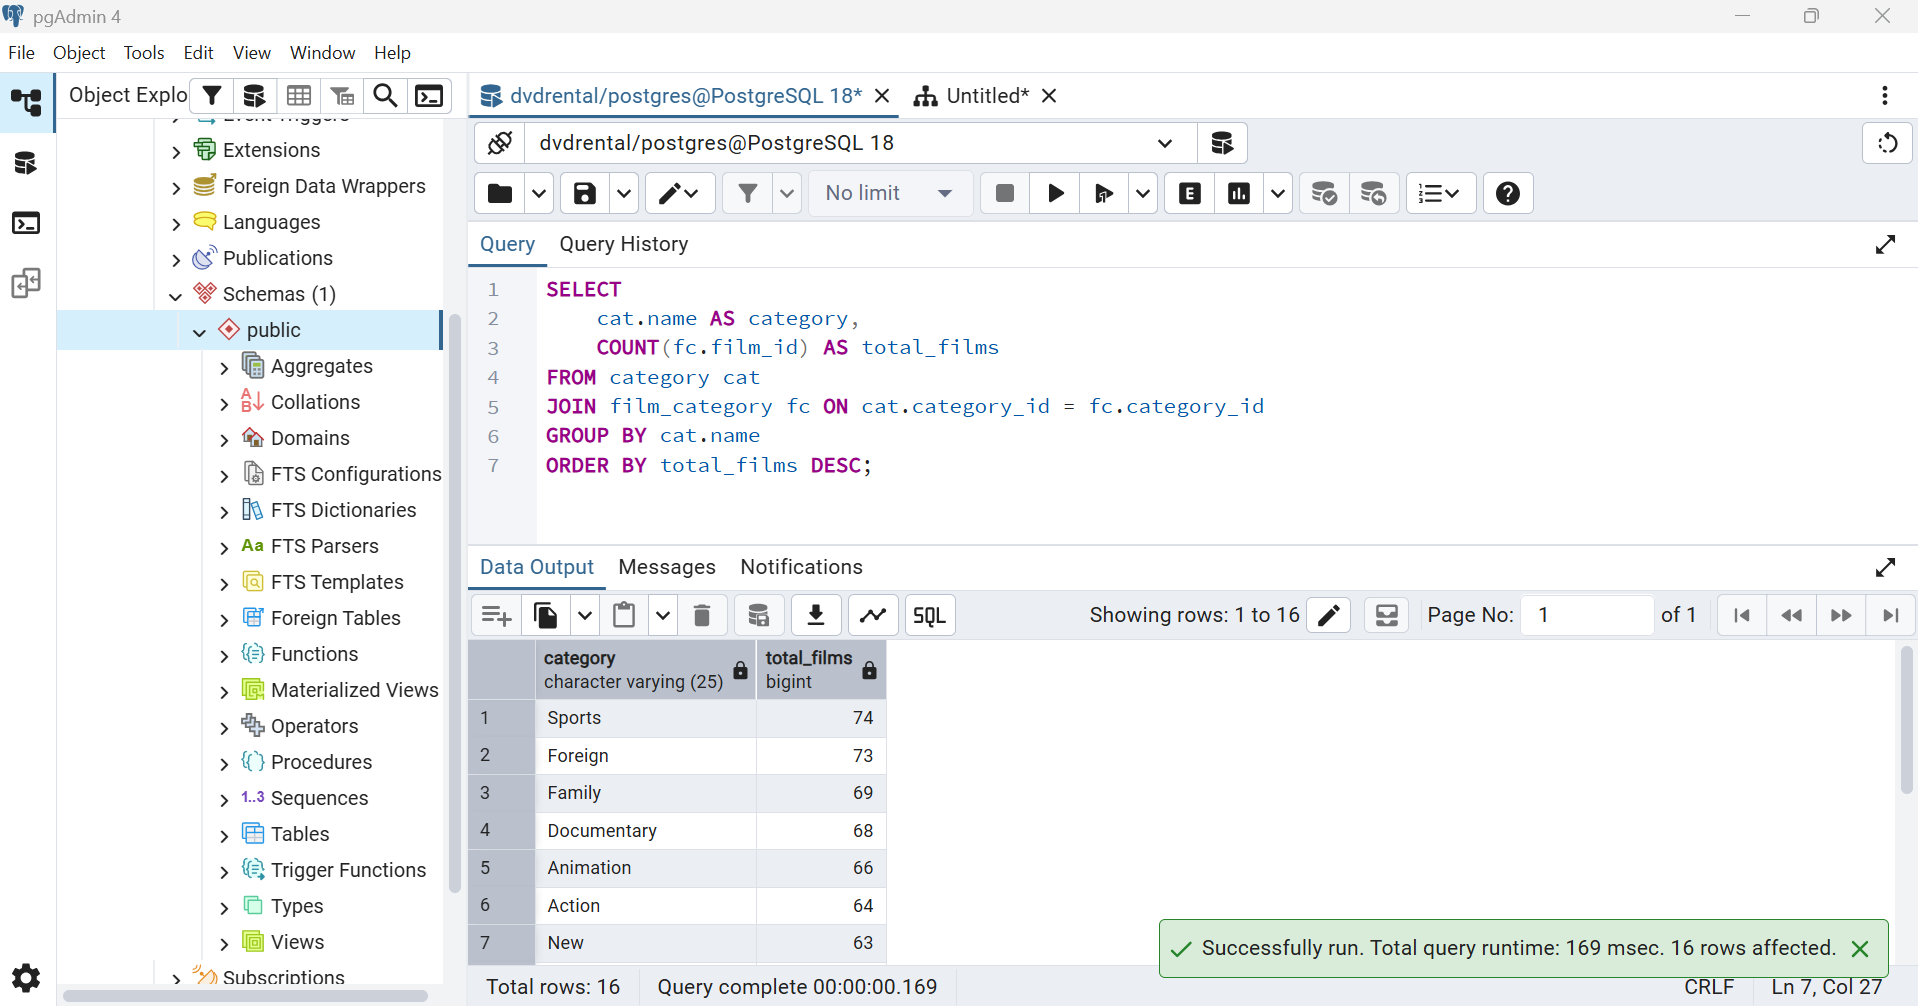
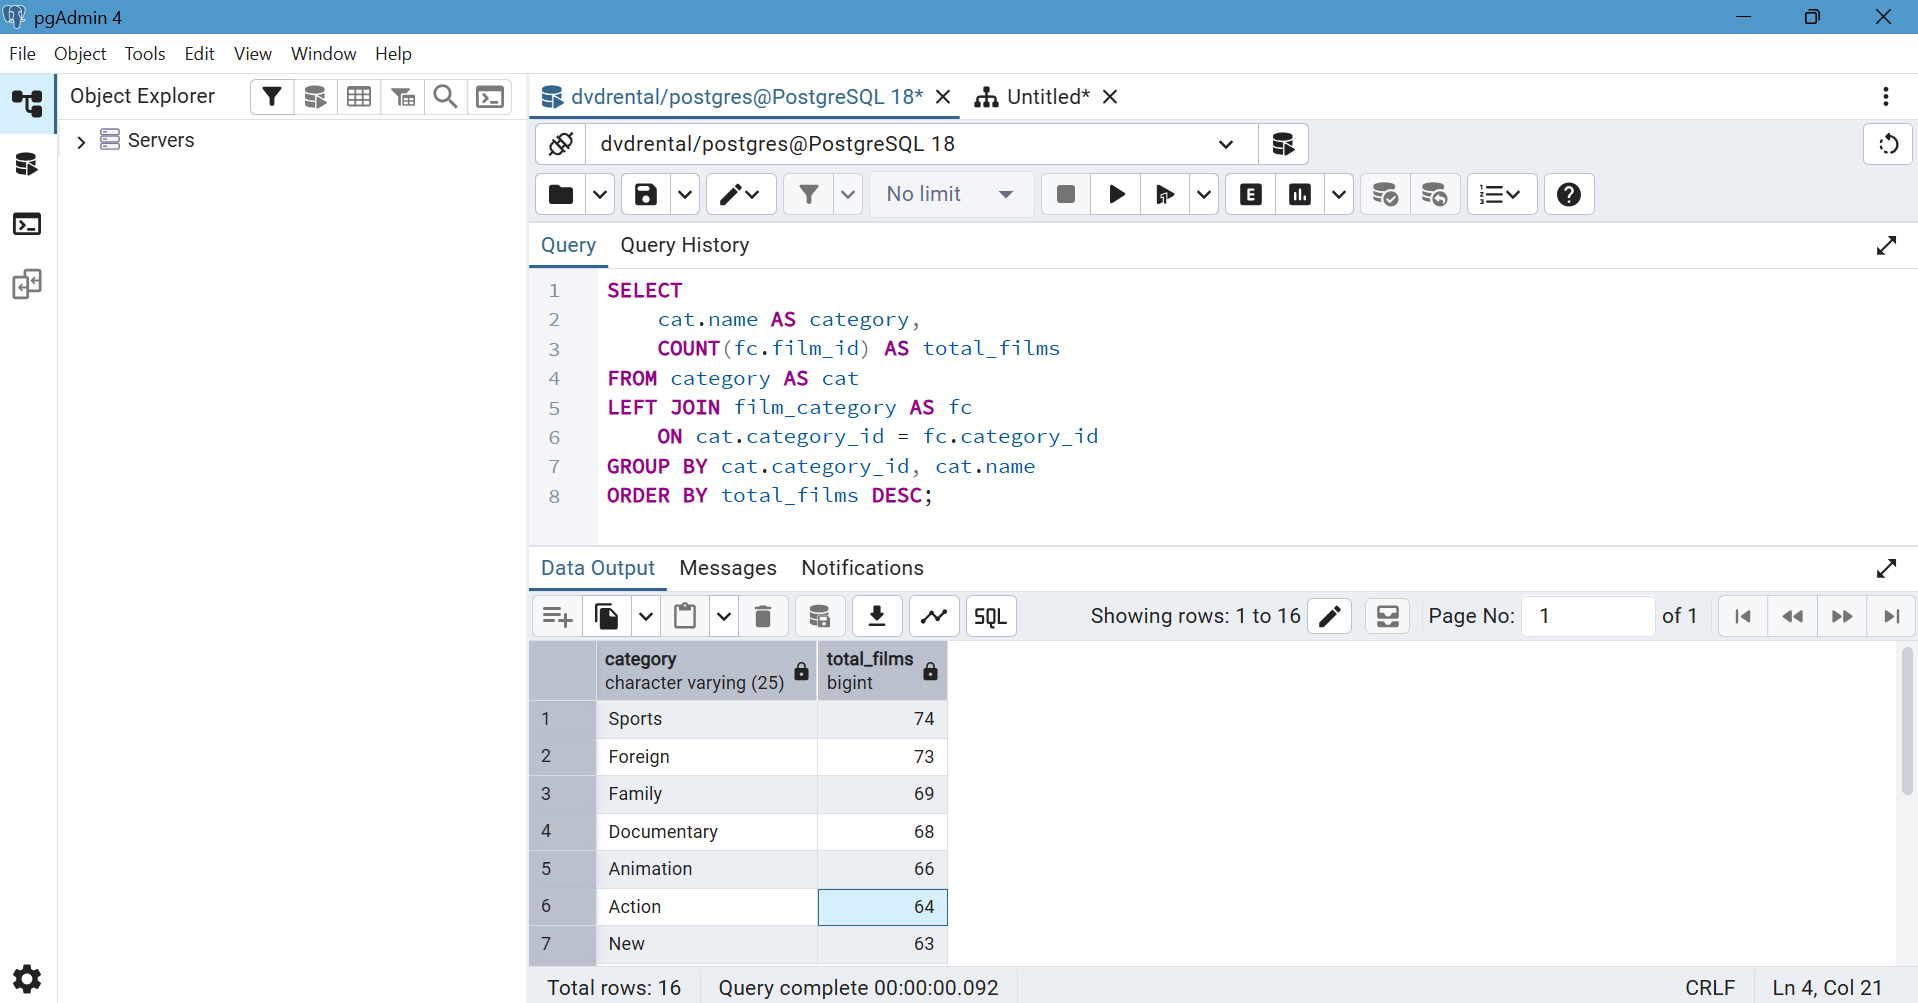
day 2

diff --git a/Week 3/Day 2/concept_check.md b/Week 3/Day 2/concept_check.md
@@ -1,0 +1,50 @@
+## Concept Check: SQL Joins & Relational Database Analysis
+
+
+### 1. Why do relational databases split data into multiple tables?
+
+Relational databases split data into multiple tables to reduce data duplication, improve consistency, and organize related information efficiently. Instead of storing the same information repeatedly, related tables are connected using Primary Keys and Foreign Keys.
+
+---
+
+### 2. What is the difference between INNER JOIN and LEFT JOIN?
+
+**INNER JOIN** returns only the rows that have matching values in both tables.
+
+**LEFT JOIN** returns all rows from the left table and the matching rows from the right table. If there is no matching row in the right table, the result contains `NULL` values.
+
+---
+
+### 3. When would you use a FULL OUTER JOIN?
+
+A **FULL OUTER JOIN** is used when you want to retrieve all records from both tables, including matching and non-matching rows. If a row has no match in either table, the missing values are filled with `NULL`.
+
+---
+
+### 4. Why are Primary Keys and Foreign Keys important?
+
+A **Primary Key** uniquely identifies each record in a table, ensuring that every row is unique.
+
+A **Foreign Key** references the Primary Key of another table, creating relationships between tables and maintaining data integrity.
+
+Together, they enable efficient data retrieval and prevent invalid or inconsistent data.
+
+---
+
+### 5. Explain normalization in simple words.
+
+Normalization is the process of organizing data into multiple related tables to eliminate duplicate information and improve data consistency.
+
+For example, customer information is stored once in the `customer` table instead of being repeated for every rental or payment.
+
+---
+
+### 6. What is an ER Diagram?
+
+An **Entity Relationship (ER) Diagram** is a visual representation of a database. It shows the tables, their attributes, Primary Keys, Foreign Keys, and the relationships between them. It serves as a blueprint for understanding how the database is structured.
+
+---
+
+### 7. What happens if a JOIN condition is incorrect?
+
+An incorrect JOIN condition can produce inaccurate results by matching unrelated records. It may also create duplicate rows, omit valid records, or generate a Cartesian product, where every row from one table is combined with every row from another table. Therefore, JOIN conditions should always use the correct Primary Key and Foreign Key relationships.
